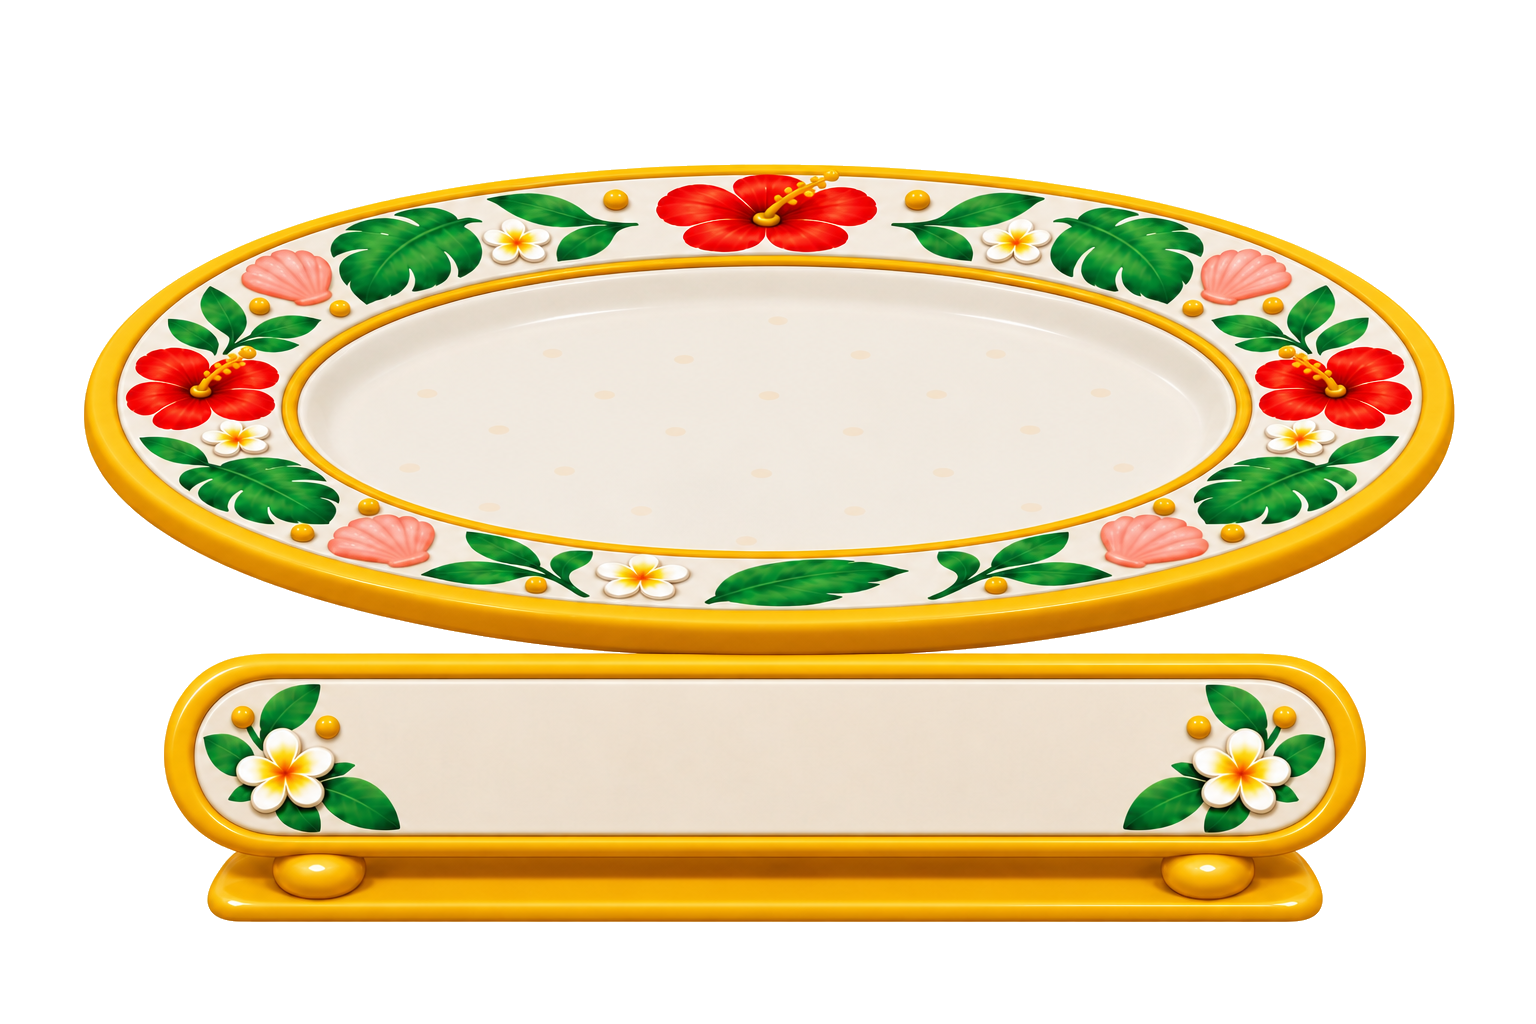
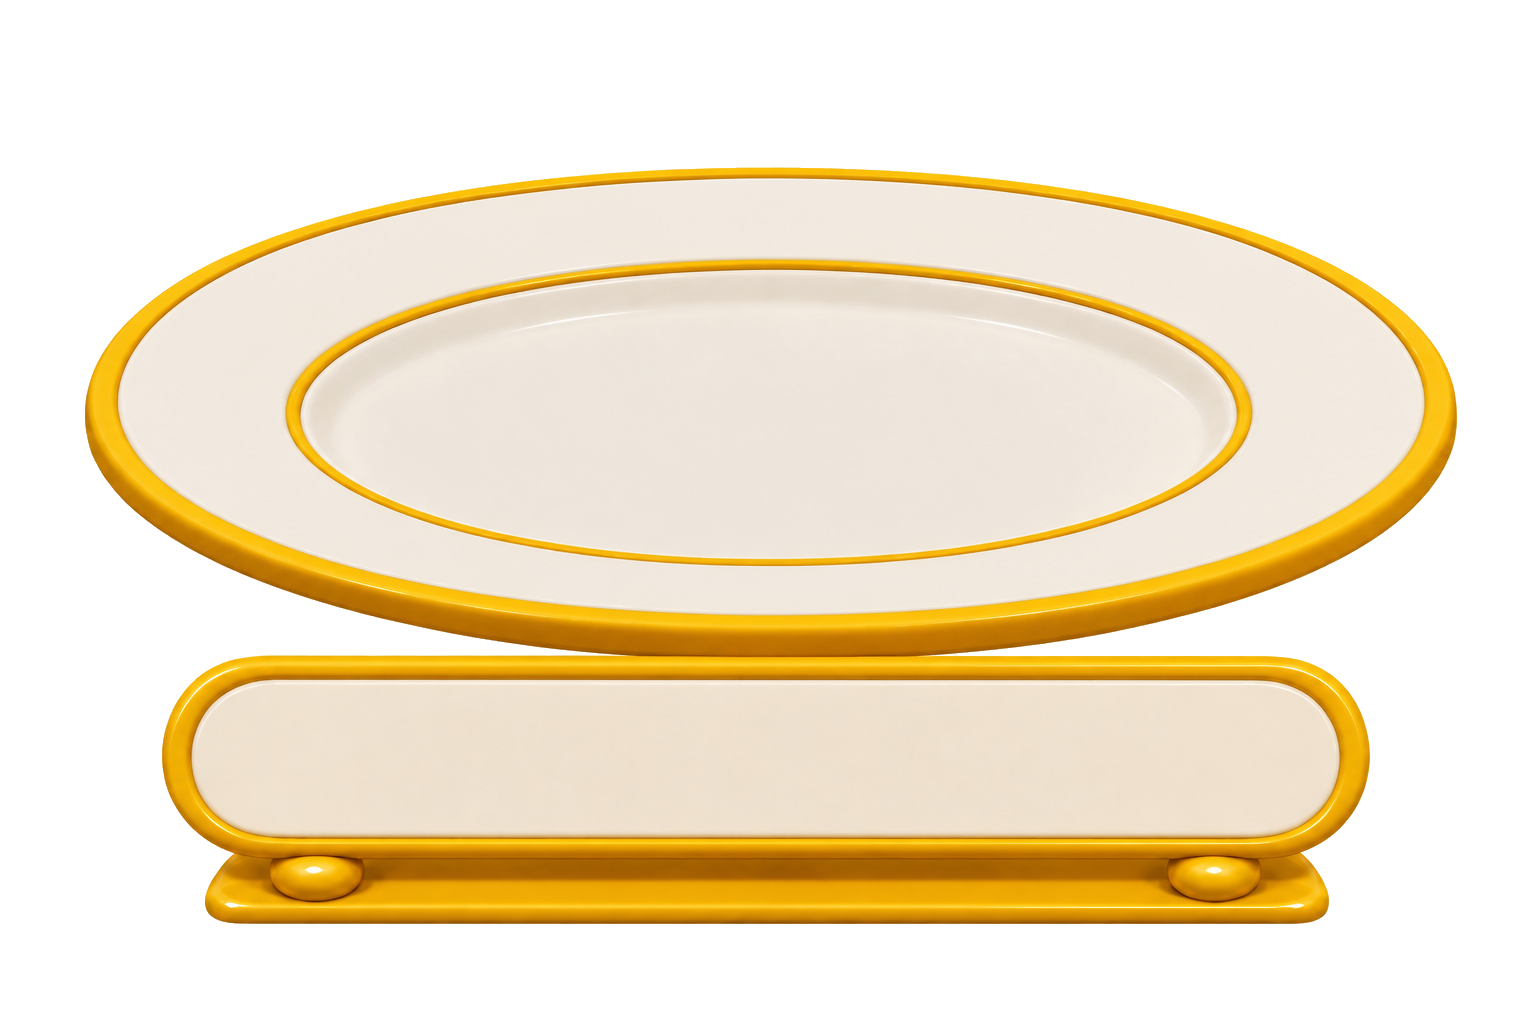
完善菜谱盘面展厅展示

Changed region(s): [[0.0312, 0.1562, 0.9688, 0.9062]]

diff --git a/src/pages/ContentSectionPage.tsx b/src/pages/ContentSectionPage.tsx
@@ -1,6 +1,6 @@
 import { useState } from 'react'
 import { IslandPagination } from '../components/IslandPagination'
-import { PostCard } from '../components/PostCard'
+import { EmptyRecipeCard, PostCard } from '../components/PostCard'
 import { SectionIcon } from '../components/SectionIcon'
 import { contentSectionInfo, sectionContent, type ContentSectionKey } from '../data/contentSections'
 
@@ -8,7 +8,10 @@ export function ContentSectionPage({ section }: { section: ContentSectionKey }) 
   const [page, setPage] = useState(1)
   const items = sectionContent[section]
   const info = contentSectionInfo[section]
-  const total = Math.max(1, Math.ceil(items.length / 30))
+  const pageSize = section === 'recipes' ? 9 : 30
+  const total = Math.max(1, Math.ceil(items.length / pageSize))
+  const pageItems = items.slice((page - 1) * pageSize, page * pageSize)
+  const emptySlots = section === 'recipes' ? Math.max(0, pageSize - pageItems.length) : 0
   return (
     <div className="page-surface">
       <header className="page-heading">
@@ -21,9 +24,10 @@ export function ContentSectionPage({ section }: { section: ContentSectionKey }) 
       </header>
       <section className="posts-library">
         <div className="post-grid">
-          {items.slice((page - 1) * 30, page * 30).map((item) => (
+          {pageItems.map((item) => (
             <PostCard key={item.slug} post={item} basePath={`/${section}`} />
           ))}
+          {section === 'recipes' && Array.from({ length: emptySlots }, (_, index) => <EmptyRecipeCard key={`recipe-empty-${page}-${index}`} />)}
         </div>
         {items.length === 0 && <p className="empty-section">这一页还在等待第一篇内容。</p>}
         <IslandPagination page={page} total={total} onChange={setPage} />

diff --git a/src/styles.css b/src/styles.css
@@ -4755,9 +4755,11 @@ h1 em {
 .recipe-plate-card { overflow: visible; border: 0; background: transparent; box-shadow: none; }
 .recipe-plate { position: relative; display: block; min-height: 300px; color: #6d4b2b; }
 .recipe-plate > img { display: block; width: 100%; height: 300px; object-fit: contain; }
-.recipe-plate > strong { position: absolute; left: 16%; right: 16%; top: 69%; text-align: center; font-size: 18px; line-height: 1.2; }
-.recipe-plate > svg { position: absolute; inset: 0; width: 100%; height: 78%; pointer-events: none; overflow: visible; }
+.recipe-plate > strong { position: absolute; left: 16%; right: 16%; top: 64%; text-align: center; font-size: 18px; line-height: 1.2; }
+.recipe-eaten { position: absolute; top: 28%; left: 0; right: 0; color: #8d632c; font-size: 15px; font-style: normal; text-align: center; }
+.recipe-plate > svg { position: absolute; inset: 0; width: 100%; height: 74%; pointer-events: none; overflow: visible; }
 .recipe-plate > svg text { fill: #8d632c; font-size: 10px; letter-spacing: .04em; }
+.recipe-empty-card .recipe-plate > strong { top: 64%; font-size: 17px; }
 
 /* 博物馆展厅：每件藏品使用自适应拍立得和独立展台。 */
 .collection-exhibit {

diff --git a/src/components/PostCard.tsx b/src/components/PostCard.tsx
@@ -9,6 +9,7 @@ export function PostCard({ post, basePath = '/posts' }: { post: Post; basePath?:
   if (basePath === '/recipes') {
     return <article className="post recipe-plate-card"><Link className="recipe-plate" to={`${basePath}/${post.slug}`} aria-label={`查看：${post.title}`}>
       <img src="/images/recipe-plate.png" alt="" />
+      {!previewImage && <em className="recipe-eaten">被吃掉了</em>}
       <strong>{post.title}</strong>
       <svg viewBox="0 0 360 220" aria-hidden="true"><defs><path id={`recipe-arc-${post.slug}`} d="M 68 105 A 112 112 0 0 0 292 105" /></defs><text><textPath href={`#recipe-arc-${post.slug}`} startOffset="50%">于{post.publishedAt}制作</textPath></text></svg>
     </Link></article>
@@ -39,4 +40,8 @@ export function PostCard({ post, basePath = '/posts' }: { post: Post; basePath?:
       </div>
     </article>
   )
+}
+
+export function EmptyRecipeCard() {
+  return <article className="post recipe-plate-card recipe-empty-card"><div className="recipe-plate"><img src="/images/recipe-plate.png" alt="" /><strong>正在研发新菜品</strong></div></article>
 }

diff --git a/src/recipes/birthday-cake.md b/src/recipes/birthday-cake.md
@@ -1,0 +1,21 @@
+---
+title: 25岁生日蛋糕
+date: 2026-08-18
+tags:
+  - 生日甜点
+excerpt: 老婆做的25岁生日蛋糕。
+icon: 🍰
+color: sunshine
+previewImage: /images/cover/25岁生日蛋糕.jpg
+detailImage: /images/cover/25岁生日蛋糕.jpg
+id: 202609030001-birthday-cake
+subtitle: 25岁的礼物
+---
+
+## 食材
+
+## 做法
+
+## 记录
+
+这是一次值得记住的生日蛋糕。
